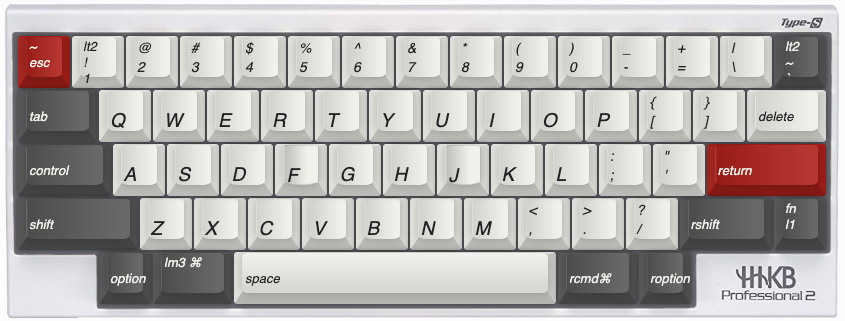
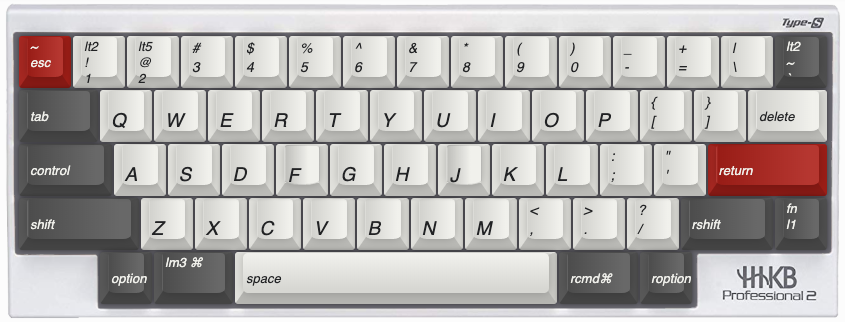
长按 2: 临时切换到鼠标层 Layer 5

diff --git a/ydkb/README.md b/ydkb/README.md
@@ -31,6 +31,8 @@ Layer 说明：
 - 长按 Fn: 开启 Layer 1
 - 长按 ~ (右上角按键) 或 长按数字 1 : 开启 Layer 2，主要是一些操作
 - 长按 ⌘: 修饰键⌘ & 瞬时开启Layer 3, 这一层的按钮必须配合 ⌘
+- 长按 2: 临时切换到鼠标层 Layer 5
+- ~ + \ (右上角2个按键)： 切换到鼠标操作层
 
 配列简要说明：
 
@@ -54,8 +56,7 @@ Layer 3 (只用于 ⌘ + `)：
 
 鼠标模拟层操作：
 
-- ~ + \ (右上角2个按键)： 切换到鼠标操作层
-- 长按 1 或 长按 ~ (右上角按键)： 切换 Layer 6，此时 hjkl 作为鼠标滚轮使用
+- 长按 1： 切换 Layer 6，此时 hjkl 作为鼠标滚轮使用
 - Esc: 退出鼠标模拟
 
 Layer 5 鼠标操作层：
@@ -93,4 +94,4 @@ Mac上操作需要按以下流程：
 
 - 2020/1/4 支持鼠标层：http://mrw.so/4WyKfp
 - 2020/1/4 使用layer5: http://mrw.so/4zg9WJ
-- 2020/1/5 优化layer5: http://mrw.so/4Wvz9T
+- 2020/1/5 优化layer5: http://mrw.so/5aRCDp
